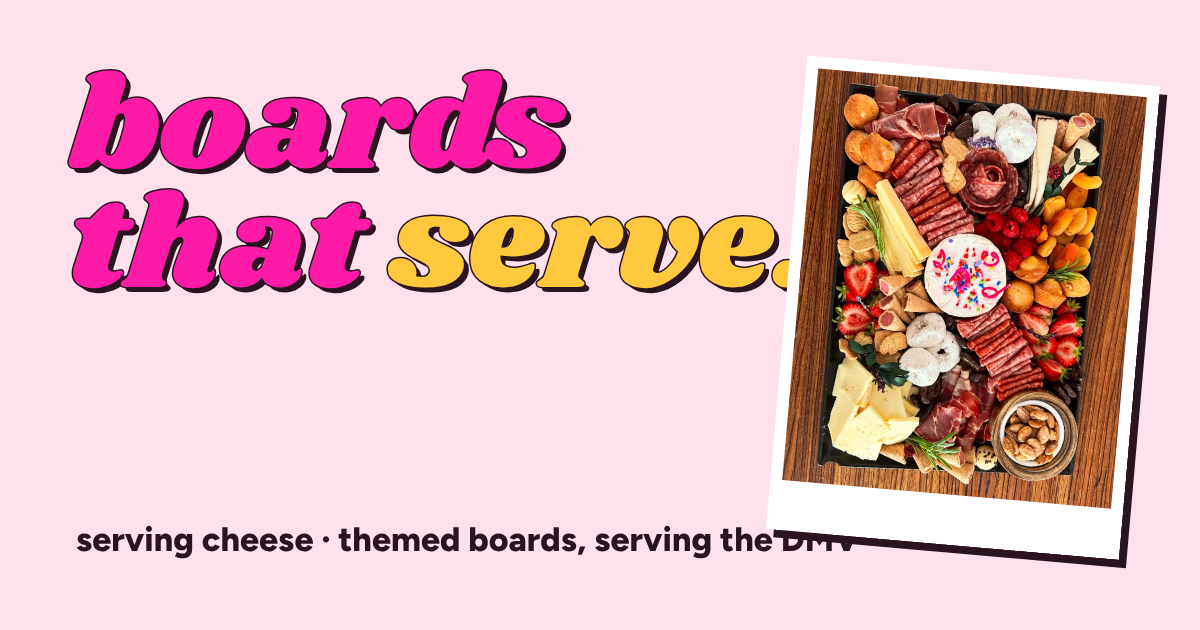
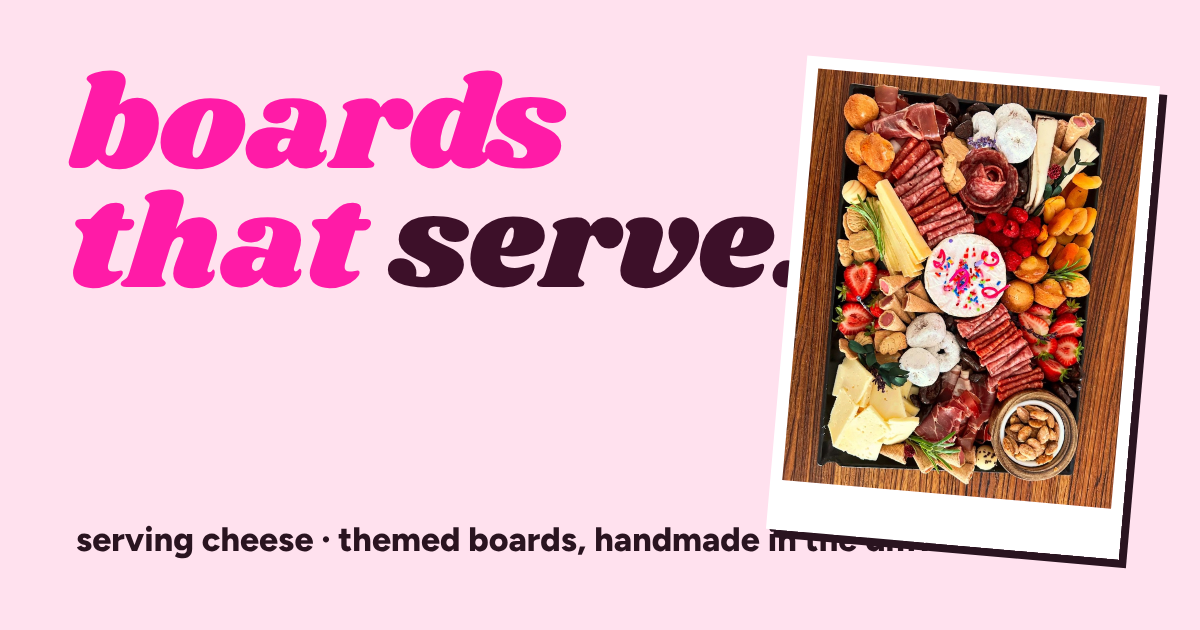
Cleaner headlines, all lowercase, handmade in the dmv
Claude-Session: https://claude.ai/code/session_016cFfSqV6WNyx4h2Wj78jvh

Changed region(s): [[0.0617, 0.1206, 0.6783, 0.4825], [0.4933, 0.8444, 0.74, 0.8746]]

diff --git a/style.css b/style.css
@@ -16,7 +16,7 @@
 }
 *, *::before, *::after { box-sizing: border-box; min-width: 0; }
 html { scroll-behavior: smooth; scroll-padding-top: 80px; }
-body { margin: 0; background: var(--paper); color: var(--ink); font: 17px/1.6 var(--sans); overflow-x: clip; -webkit-font-smoothing: antialiased; }
+body { text-transform: lowercase; margin: 0; background: var(--paper); color: var(--ink); font: 17px/1.6 var(--sans); overflow-x: clip; -webkit-font-smoothing: antialiased; }
 img { display: block; max-width: 100%; height: auto; }
 figure { margin: 0; }
 p { margin: 0 0 1em; }
@@ -45,8 +45,8 @@ h1, h2, h3 { font-family: var(--display); font-weight: 400; line-height: 1; marg
 /* hero */
 .hero { background: var(--blush); position: relative; overflow: hidden; }
 .hero .wrap { display: grid; grid-template-columns: minmax(0, 1fr) minmax(0, 1.05fr); gap: clamp(24px, 4vw, 56px); align-items: center; padding-top: clamp(48px, 7vw, 88px); padding-bottom: clamp(56px, 8vw, 104px); }
-.hero h1 { font-size: clamp(60px, 9vw, 128px); line-height: .9; color: var(--pink); text-shadow: 4px 4px 0 var(--ink); -webkit-text-stroke: 2px var(--ink); paint-order: stroke fill; }
-.hero h1 em { display: block; font-style: normal; color: var(--honey); }
+.hero h1 { font-size: clamp(60px, 9vw, 128px); line-height: .9; color: var(--pink); }
+.hero h1 em { display: block; font-style: normal; color: var(--fig); }
 .hero .lede { font-size: clamp(19px, 2vw, 22px); font-weight: 500; max-width: 30ch; margin: 28px 0 28px; }
 .hero .actions { display: flex; flex-wrap: wrap; gap: 14px; }
 .polas { position: relative; min-height: clamp(380px, 46vw, 600px); }
@@ -72,7 +72,7 @@ h1, h2, h3 { font-family: var(--display); font-weight: 400; line-height: 1; marg
 /* sections */
 .section { padding: clamp(72px, 10vw, 120px) 0; }
 .title { display: flex; justify-content: space-between; align-items: end; gap: 24px; flex-wrap: wrap; margin-bottom: clamp(32px, 5vw, 56px); }
-.title h2 { font-size: clamp(46px, 7vw, 88px); color: var(--pink); -webkit-text-stroke: 1.5px var(--ink); paint-order: stroke fill; text-shadow: 3px 3px 0 var(--ink); }
+.title h2 { font-size: clamp(46px, 7vw, 88px); color: var(--pink); }
 .title p { margin: 0; max-width: 36ch; color: var(--muted); font-size: 18px; }
 
 /* the spread: real boards */
@@ -85,7 +85,7 @@ h1, h2, h3 { font-family: var(--display); font-weight: 400; line-height: 1; marg
 
 /* holidays */
 .holidays { background: var(--honey); border-block: 2.5px solid var(--ink); }
-.holidays .title h2 { color: #fff; }
+.holidays .title h2 { color: var(--fig); }
 .holidays .title p { color: var(--ink); }
 .hol { display: grid; grid-template-columns: repeat(4, minmax(0, 1fr)); gap: 18px; }
 .hol figure { margin: 0; background: #fff; border: 2px solid var(--ink); border-radius: 18px; overflow: hidden; box-shadow: 5px 5px 0 var(--ink); }
@@ -97,7 +97,7 @@ h1, h2, h3 { font-family: var(--display); font-weight: 400; line-height: 1; marg
 
 /* menu board */
 .menu { background: var(--fig); color: #fff; }
-.menu .title h2 { color: var(--honey); text-shadow: 3px 3px 0 #000; -webkit-text-stroke: 1.5px #000; }
+.menu .title h2 { color: var(--honey); }
 .menu .title p { color: #f1d6e4; }
 .boards { display: grid; grid-template-columns: repeat(2, minmax(0, 1fr)); gap: 0 clamp(28px, 5vw, 64px); list-style: none; margin: 0 0 clamp(44px, 6vw, 72px); padding: 0; }
 .boards li { display: grid; grid-template-columns: minmax(0, 1fr) auto; gap: 4px 16px; padding: 20px 0; border-bottom: 2px dashed rgba(255,255,255,.25); }
@@ -138,12 +138,12 @@ h1, h2, h3 { font-family: var(--display); font-weight: 400; line-height: 1; marg
 /* about */
 .about { display: grid; grid-template-columns: minmax(0, .9fr) minmax(0, 1.1fr); gap: clamp(32px, 6vw, 80px); align-items: center; }
 .about .pola { position: relative; width: min(100%, 400px); transform: rotate(-3deg); margin: 0 auto; }
-.about h2 { font-size: clamp(46px, 6vw, 76px); color: var(--pink); -webkit-text-stroke: 1.5px var(--ink); paint-order: stroke fill; text-shadow: 3px 3px 0 var(--ink); margin-bottom: 20px; }
+.about h2 { font-size: clamp(46px, 6vw, 76px); color: var(--pink); margin-bottom: 20px; }
 .about p { font-size: 18.5px; }
 
 /* order */
 .order { background: var(--pink); color: #fff; border-top: 2.5px solid var(--ink); text-align: center; }
-.order h2 { font-size: clamp(60px, 10vw, 140px); color: var(--honey); -webkit-text-stroke: 2px var(--ink); paint-order: stroke fill; text-shadow: 5px 5px 0 var(--ink); }
+.order h2 { font-size: clamp(60px, 10vw, 140px); color: var(--fig); }
 .order p { font-size: 20px; max-width: 40ch; margin: 22px auto 30px; }
 .order .actions { display: flex; flex-wrap: wrap; justify-content: center; gap: 14px; }
 .order .mail { margin-top: 18px; font-weight: 800; }

diff --git a/index.html b/index.html
@@ -4,7 +4,7 @@
 <meta charset="utf-8">
 <meta name="viewport" content="width=device-width, initial-scale=1">
 <title>serving cheese | boards that serve</title>
-<meta name="description" content="Themed cheese and charcuterie boards and grazing tables by Kendra Lee, serving the DMV.">
+<meta name="description" content="themed cheese and charcuterie boards and grazing tables, handmade for parties all over the dmv.">
 <meta property="og:title" content="serving cheese | boards that serve">
 <meta property="og:description" content="Themed cheese and charcuterie boards and grazing tables, styled to steal the show. Serving the DMV.">
 <meta property="og:image" content="images/serving-cheese-social.png">
@@ -34,7 +34,7 @@
     <div class="wrap">
       <div>
         <h1>boards that <em>serve.</em></h1>
-        <p class="lede">Themed cheese and charcuterie boards and grazing tables, styled to steal the show. Made by Kendra Lee, serving the DMV.</p>
+        <p class="lede">themed cheese and charcuterie boards and grazing tables, handmade for parties all over the dmv.</p>
         <div class="actions">
           <a class="btn pink" href="#order">order a board</a>
           <a class="btn light" href="#boards">see the boards</a>
